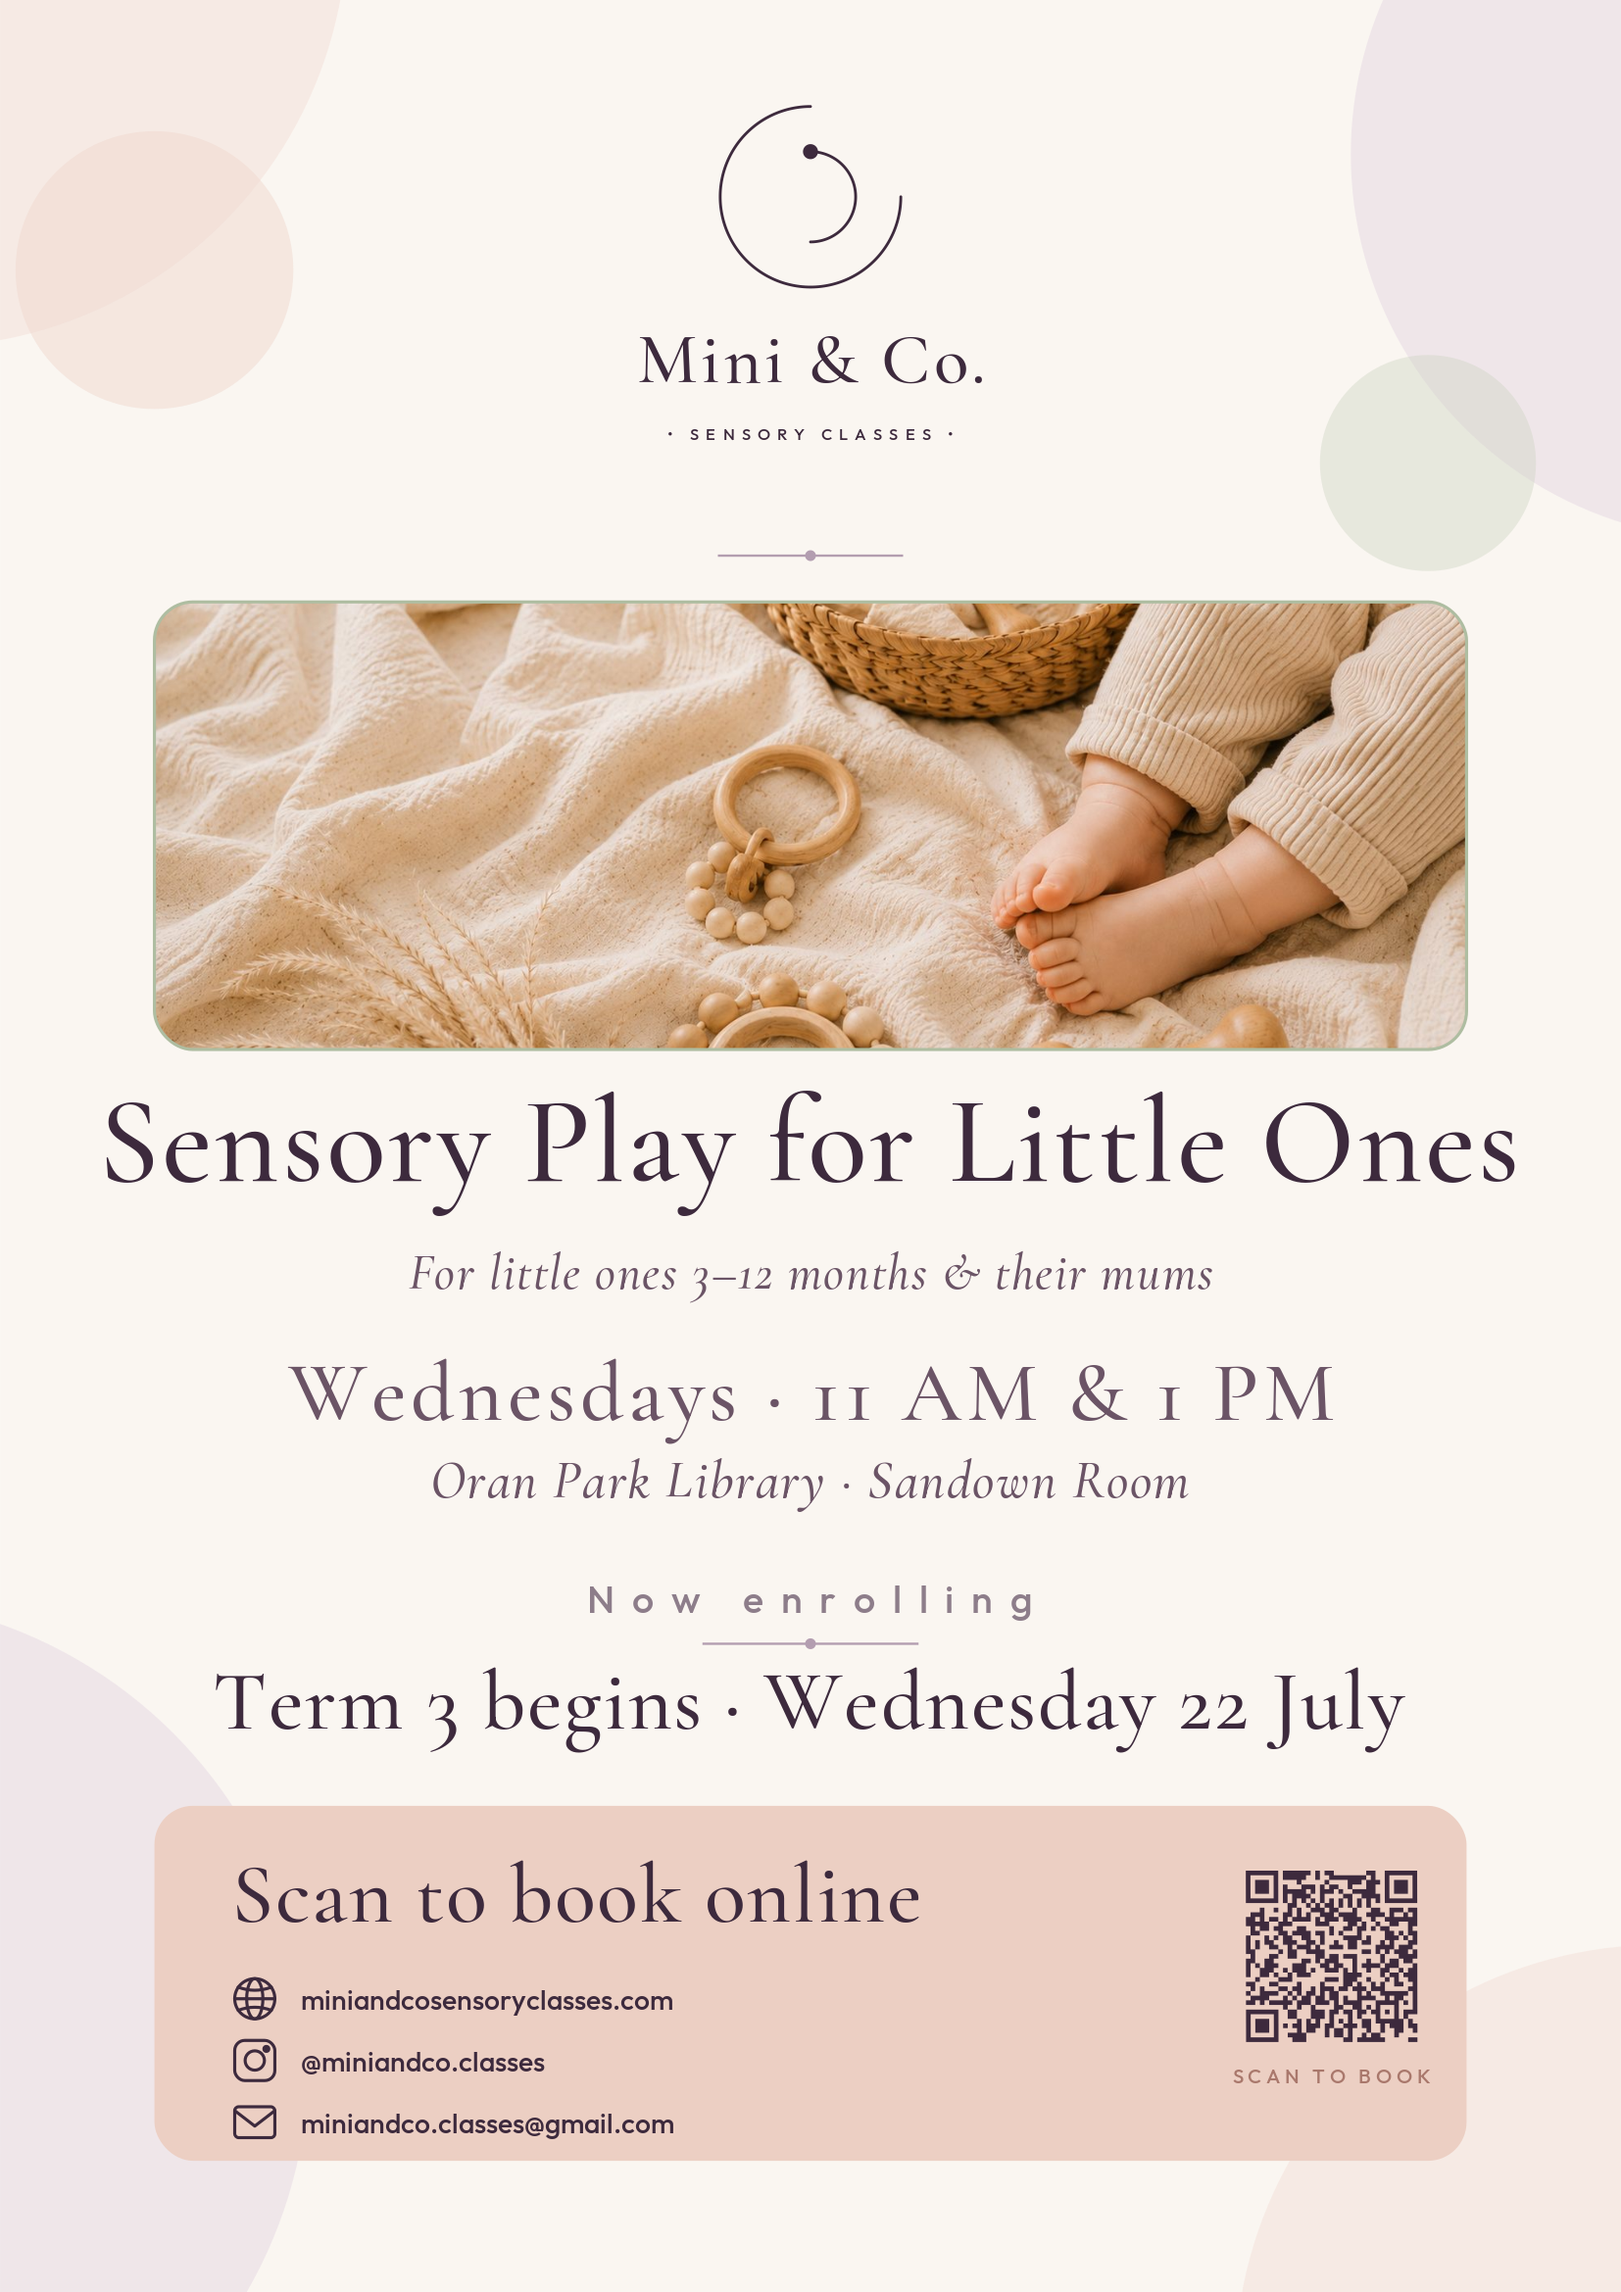
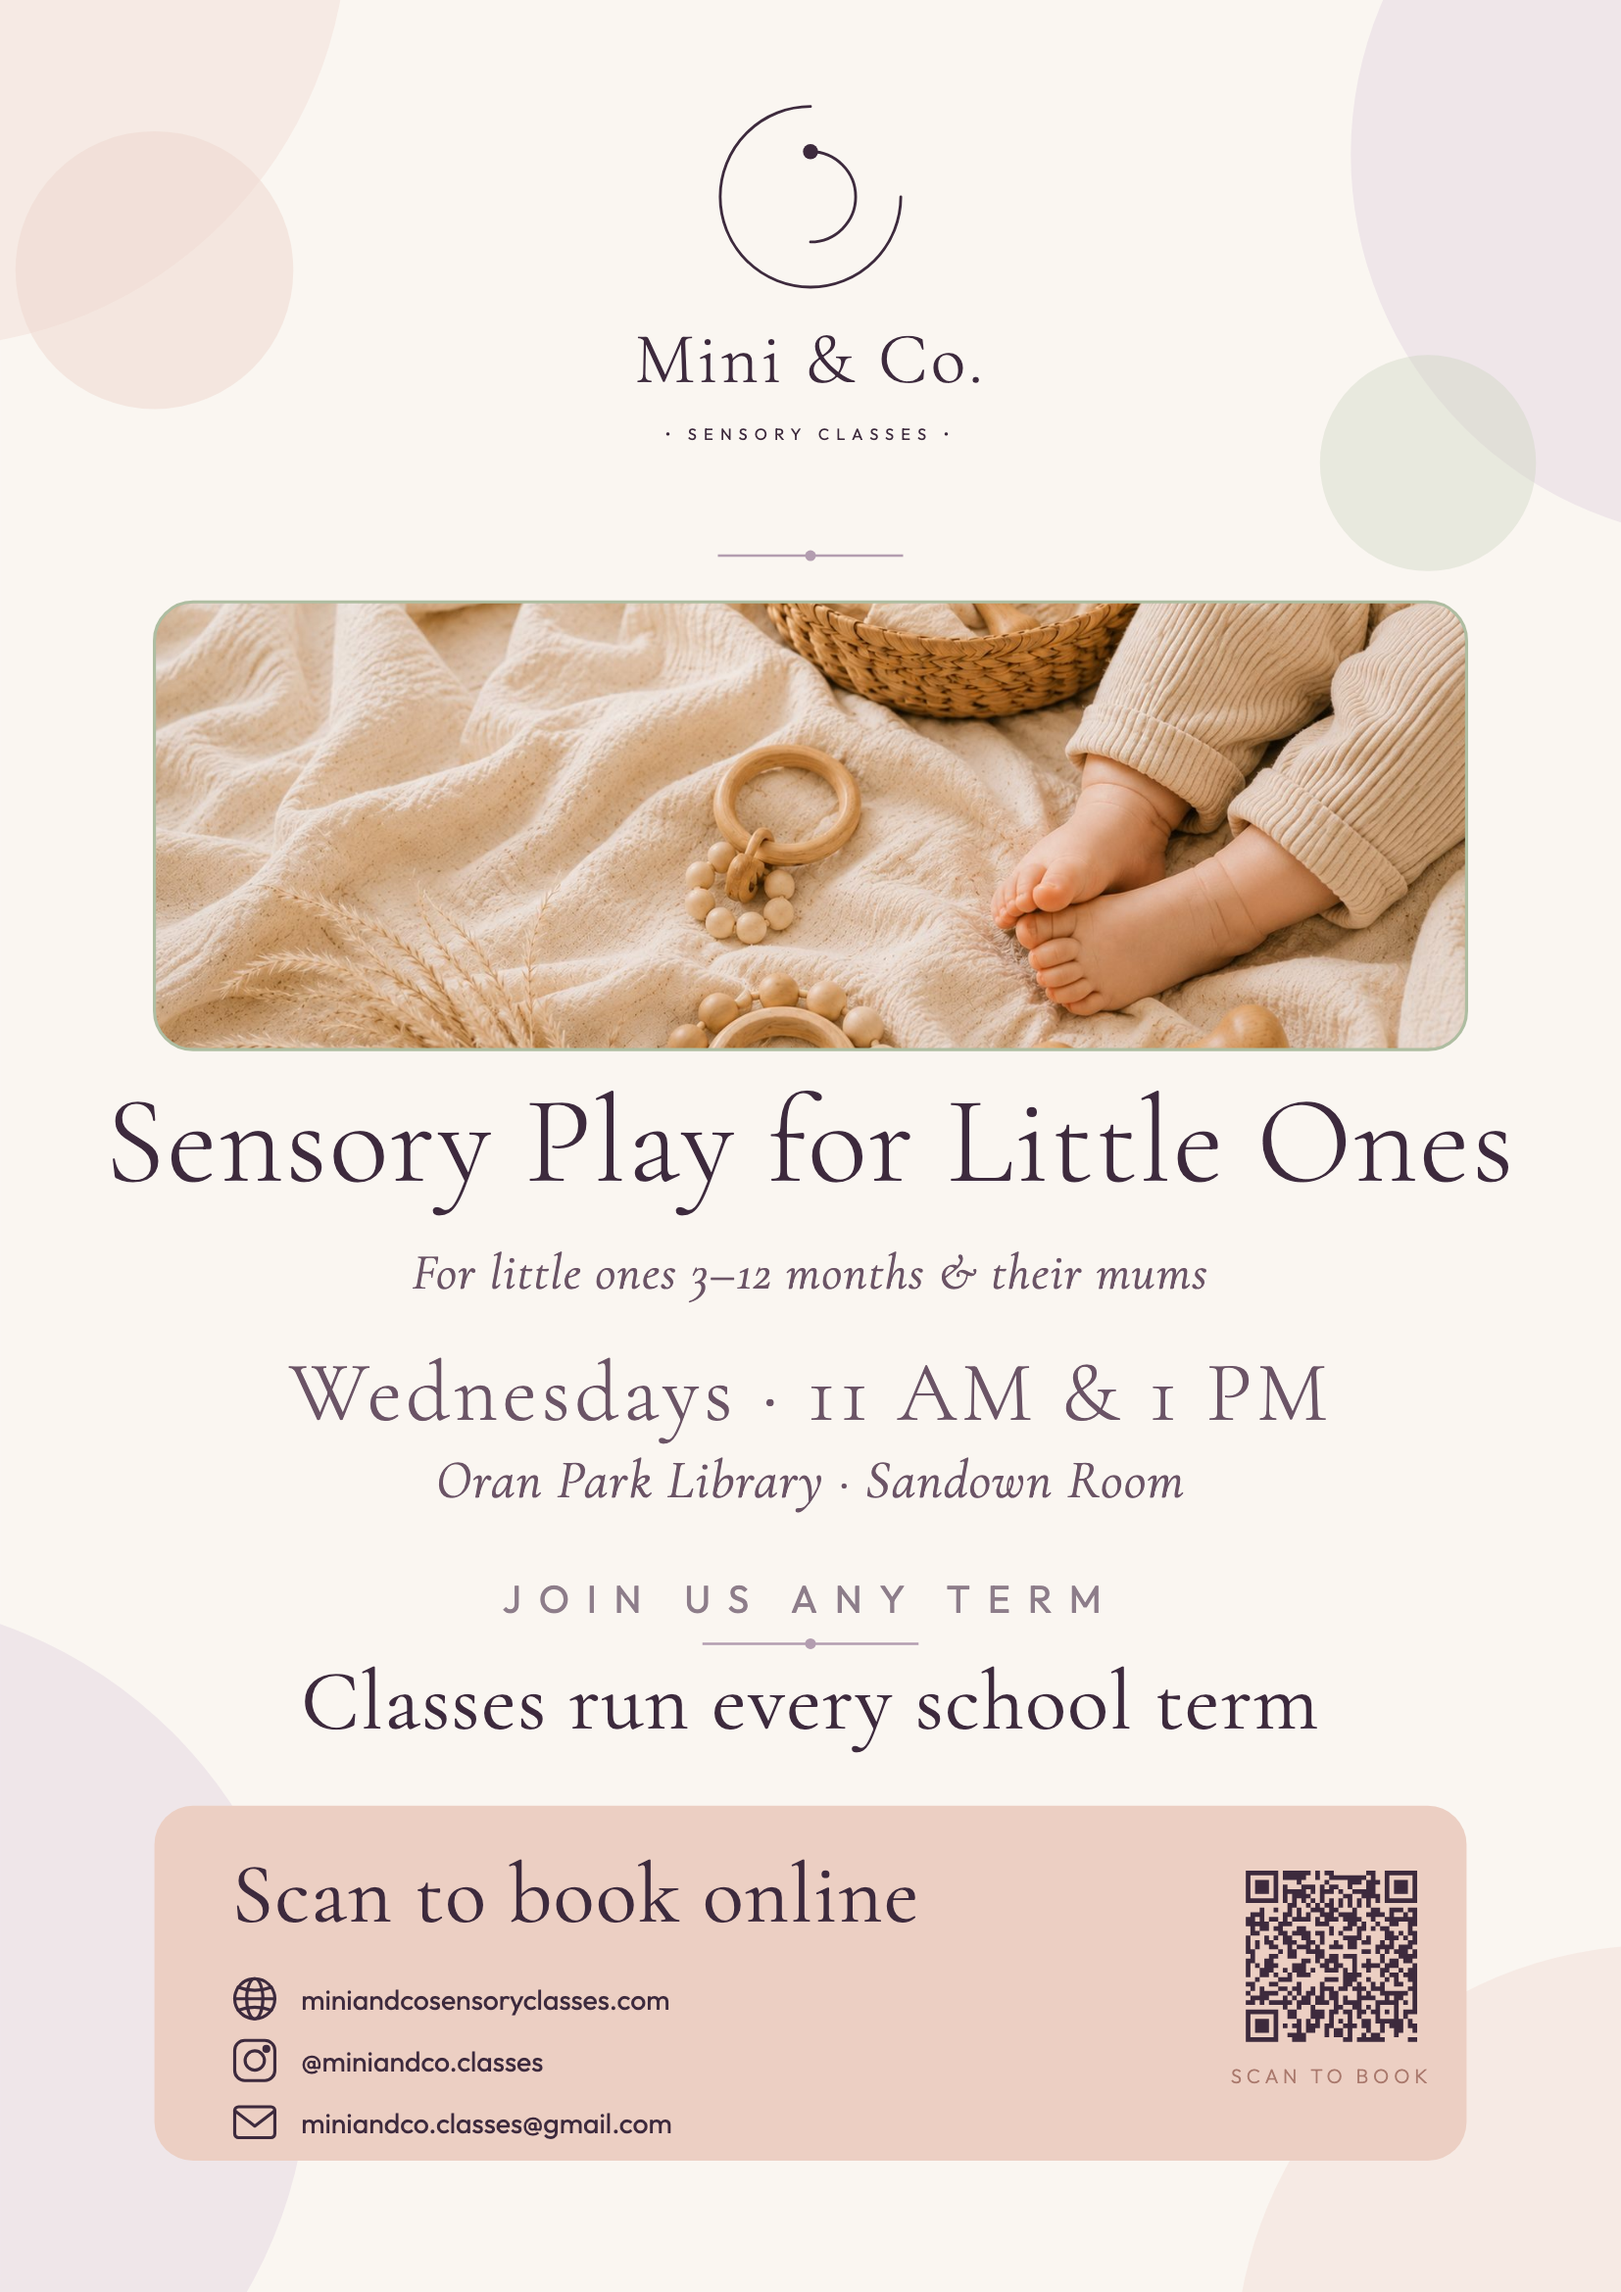
Make the A4 flyer evergreen
Replace the dated "Now enrolling / Term 3 begins · Wednesday 22 July"
block with "Join us any term / Classes run every school term", so the
flyer no longer needs reprinting each term. Current dates and
availability live on the site behind the QR code.

Restore hero-sensory-play-1600.jpg: d602029 removed it as orphaned, but
export-flyer.py still embeds it.

diff --git a/scripts/export-flyer.py b/scripts/export-flyer.py
@@ -223,14 +223,15 @@ def build_svg() -> str:
   <text x="{cx}" y="194" text-anchor="middle" class="display-italic"
         font-size="7" fill="{TEXT_SOFT}" letter-spacing="0.2">Oran Park Library  ·  Sandown Room</text>
 
-  <!-- ===== NOW ENROLLING (dated — the flyer carries what the banner omits) ===== -->
+  <!-- ===== TERMS (evergreen — no dates or prices, so the flyer survives
+       every term rollover; current dates live on the site behind the QR) ===== -->
   <text x="{cx}" y="209" text-anchor="middle" class="eyebrow"
-        font-size="5" fill="{TEXT_MUTED}">Now enrolling</text>
+        font-size="5" fill="{TEXT_MUTED}">Join us any term</text>
   <line x1="{cx - 14}" y1="213" x2="{cx + 14}" y2="213" stroke="{ORNAMENT}" stroke-width="0.3"/>
   <circle cx="{cx}" cy="213" r="0.7" fill="{ORNAMENT}"/>
 
   <text x="{cx}" y="224" text-anchor="middle" class="display"
-        font-size="11" fill="{PLUM}" letter-spacing="0.2">Term 3 begins  ·  Wednesday 22 July</text>
+        font-size="11" fill="{PLUM}" letter-spacing="0.2">Classes run every school term</text>
 
   <!-- ===== BOOK NOW PANEL (warm blush) — booking CTA + key contacts ===== -->
   <rect x="20" y="234" width="170" height="46" rx="5" fill="{PANEL_BLUSH}"/>
